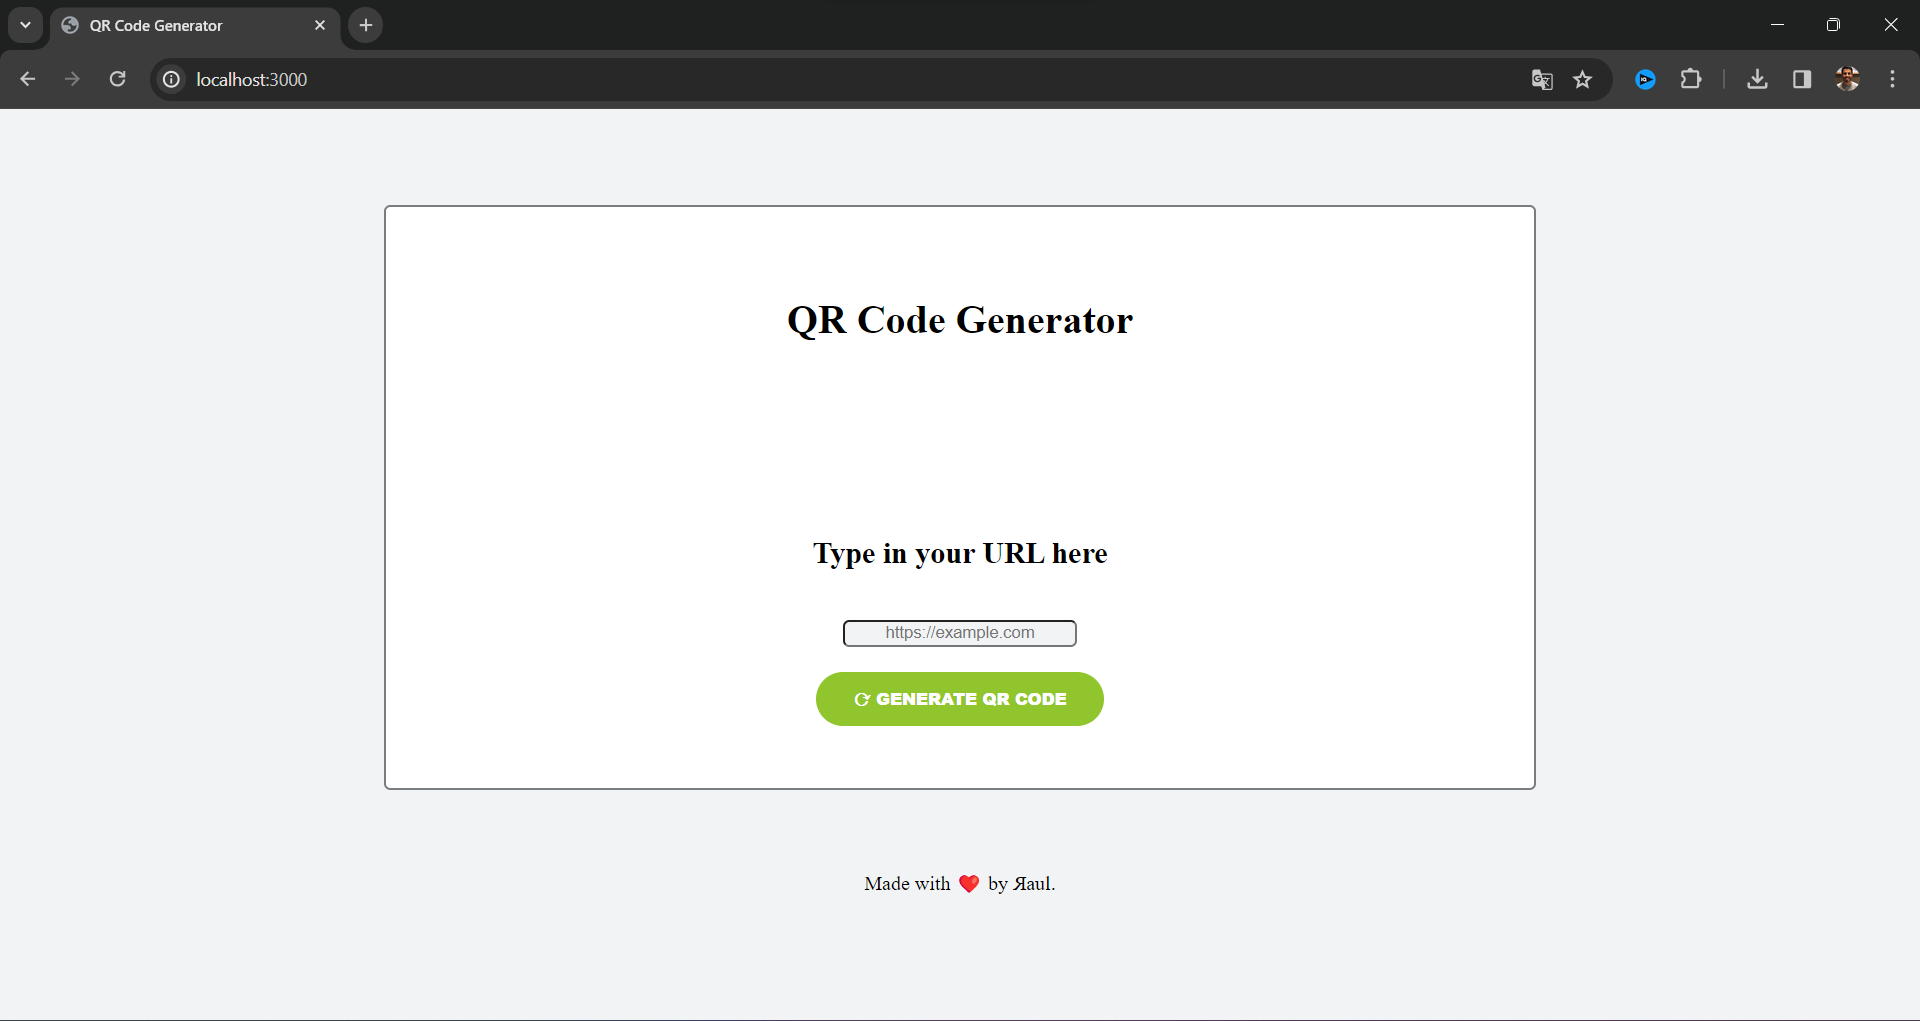
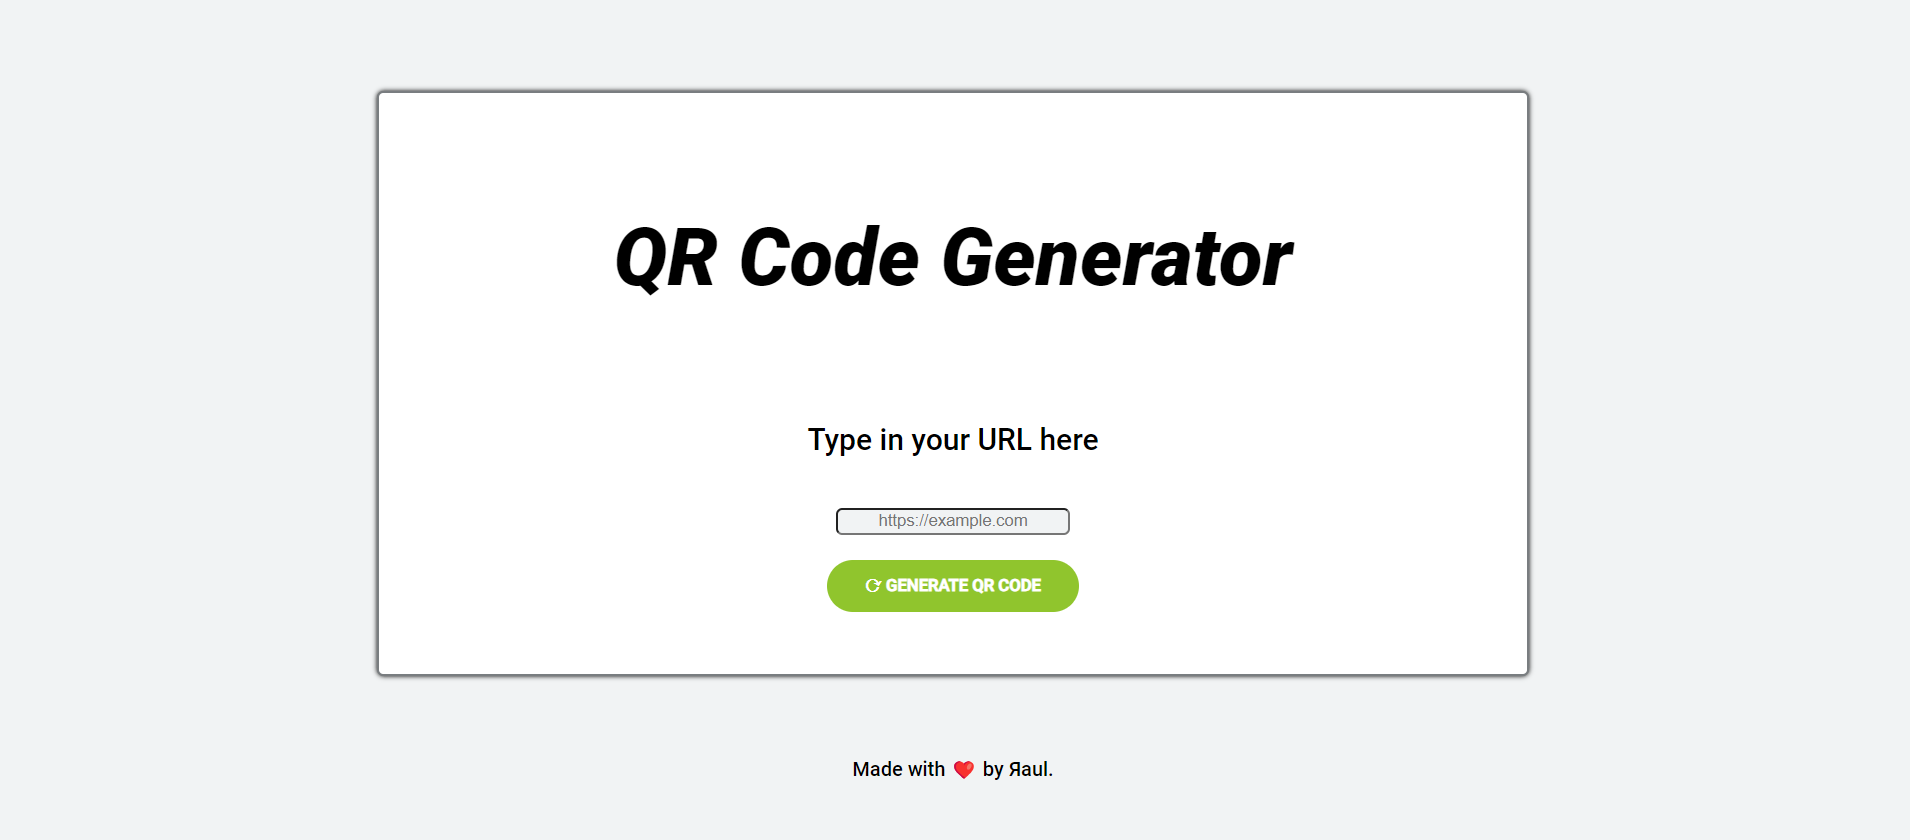
font-family and preview image updates

diff --git a/Frontend/styles.css b/Frontend/styles.css
@@ -1,8 +1,8 @@
 body {
-    display: block;
     margin: 0;
     padding: 0;
     background-color: #F1F3F4;
+    font-family: 'Roboto', sans-serif;
 }
 
 .container {
@@ -19,16 +19,23 @@ body {
     border-radius: 5px;
     align-items: center;
     justify-content: center;
+    box-shadow: 0 0 4px black;
 }
 
 h1 {
     flex: 1;
     text-align: center;
+    
+    font-weight: 900;
+    font-style: italic;
+    font-size: 4rem;
 }
 
 h2 {
     flex: 0;
     text-align: center;
+    
+    font-weight: 500;
 }
 
 .url-input {
@@ -46,6 +53,7 @@ h2 {
     margin-top: 20px;
     border-radius: 30px;
     padding: 12px 30px;
+    font-family: 'Roboto', sans-serif;
     font-weight: 900;
     text-transform: uppercase;
     background-color: #90c52d;

diff --git a/Frontend/index.html b/Frontend/index.html
@@ -4,6 +4,9 @@
     <meta charset="UTF-8">
     <meta name="viewport" content="width=device-width, initial-scale=1.0">
     <title>QR Code Generator</title>
+    <link rel="preconnect" href="https://fonts.googleapis.com">
+    <link rel="preconnect" href="https://fonts.gstatic.com" crossorigin>
+    <link href="https://fonts.googleapis.com/css2?family=Roboto:ital,wght@0,500;1,900&display=swap" rel="stylesheet">
     <link rel="stylesheet" href="./styles.css"/>
 </head>
 <body>
